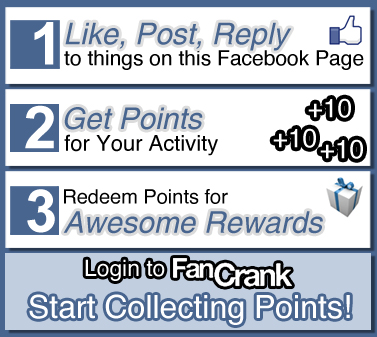
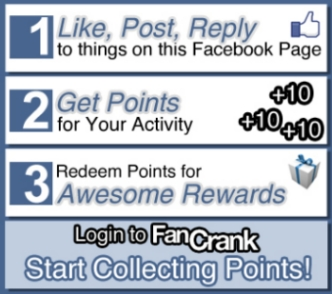
css fixes cross browser

Changed region(s): [[0.0, 0.0, 1.0, 1.0]]

diff --git a/public/css/loadstyle1.css b/public/css/loadstyle1.css
@@ -634,6 +634,7 @@ background-color: @color-post-background-hover;
   position: relative;
   padding-left: 2px;
   padding-right: 2px;
+  clear: both;
 }
 .top-list.mini .ranker {
   height: 36px;
@@ -867,6 +868,12 @@ background-color: @color-post-background-hover;
   -webkit-hyphens: auto;
   -moz-hyphens: auto;
   hyphens: auto;
+}
+#toppost .comment-box {
+  width: 120px;
+}
+.points.login {
+  width: 160px;
 }
 .post-container .link {
   font-size: 11px;
@@ -1118,7 +1125,7 @@ background-color: @color-post-background-hover;
   -moz-box-shadow: 0 0 0 0;
   box-shadow: 0 0 0 0;
 }
-.progress .bar img {
+.progress img {
   width: 40px;
 }
 .progress.exp {
@@ -1451,8 +1458,8 @@ background:@color-post-background-hover;
   margin-right: 10px;
 }
 #whatisfancrank {
-  height: 329px;
-  width: 370px;
+  height: 302px;
+  text-align: Center;
   margin-top: 8px;
 }
 .italic {

diff --git a/public/css/refactor_style.less b/public/css/refactor_style.less
@@ -689,6 +689,7 @@ width:100%;
 position:relative;
 padding-left:2px;
 padding-right:2px;
+clear:both;
 }	
 
 .top-list.mini .ranker{
@@ -991,6 +992,14 @@ word-break: break-word;
 hyphens: auto;
 }
 
+#toppost .comment-box{
+	width:120px;
+}
+
+.points.login{
+	width:160px;
+}
+
 .post-container .link{
 font-size:11px;
 background-color: @color-post-link-background;
@@ -1272,7 +1281,7 @@ background:@color-badge-bar;
 .box-shadow(0 0 0 0 );
 }
 
-.progress .bar img{
+.progress img{
 width:40px;
 }
 
@@ -1659,9 +1668,8 @@ margin-right:10px;
 /////////////////////////////////////////////////////////////////////////////////////
 
 #whatisfancrank{
-
-	height:329px;
-	width:370px;
+	height:302px;
+	text-align:Center;
 	margin-top:8px;
 }
 

diff --git a/public/js/cranker.js b/public/js/cranker.js
@@ -471,7 +471,7 @@ function getUpcomingBadges(ui, limit){
 			if (ui == '#profile_upcoming_badges'){
 				$(ui).html("<div style='text-align:center;margin-top:-1px; padding: 0 25px 0 ' ><img src='/img/ajax-loader.gif' /></div>");
 			}else{
-				$(ui).html("<div style='text-align:center;margin-top:-1px; padding: 0 25px 0 ' ><img src='/img/ajax-loader2.gif' /></div>");
+				$(ui).html("<div style='text-align:center;margin-top:-1px; padding: 0 25px 0 ' ><img src='/img/ajax-loader-white.gif' /></div>");
 				
 			}
 		},

diff --git a/application/modules/app/controllers/IndexController.php b/application/modules/app/controllers/IndexController.php
@@ -82,11 +82,12 @@ class App_IndexController extends Fancrank_App_Controller_BaseController
     	
     	//get top fans list from memcache
    		if(!empty($this->data['page']['id'])) {
+   			$topfan = array();
     		$cache = Zend_Registry::get('memcache');
     		$cache->setLifetime(1800);
-     		//$cache->remove($this->data['page']['id'] . '_topfan');
+     		$cache->remove($this->data['page']['id'] . '_topfan');
      		//$cache->remove($this->data['page']['id'] . '_topfanall');
-     		//$cache->remove($this->data['page']['id'] . '_topfanlastweek');
+     		$cache->remove($this->data['page']['id'] . '_topfanlastweek');
 //     		$cache->remove($this->_fanpageId . '_topclicker');
 //     		$cache->remove($this->_fanpageId . '_topfollowed');
 //     		$cache->remove($this->_fanpageId . '_toptalker');
@@ -159,10 +160,7 @@ class App_IndexController extends Fancrank_App_Controller_BaseController
   				//echo $e->getMessage();
   			}    	
     	}
-    	    	
-    	
-    
-    	
+    	    	   	
     	
     	/*
     	if(isset($fanpage->fanpage_level) && $fanpage->fanpage_level != 3) {

diff --git a/application/models/Rankings.php b/application/models/Rankings.php
@@ -84,7 +84,7 @@ class Model_Rankings extends Model_DbTable_Rankings
 		$select="SELECT f.fan_last_name, f.fan_first_name, f.facebook_user_id, sum(if(p.giving_points>0, p.giving_points, 0)) as count FROM fancrank.point_log p
 				left join fans f
 				on f.facebook_user_id = p.facebook_user_id
-				where f.fanpage_id = $page_id && f.facebook_user_id != f.fanpage_id && p.created_time > $this->_lastSunday
+				where f.fanpage_id = $page_id && f.facebook_user_id != f.fanpage_id && p.created_time > '$this->_lastSunday'
 				group by f.facebook_user_id
 				having f.facebook_user_id not in (Select facebook_user_id from fanpage_admins where fanpage_id = $page_id)
 				order by count DESC";

diff --git a/application/modules/app/controllers/AppController.php b/application/modules/app/controllers/AppController.php
@@ -2865,6 +2865,7 @@ class App_AppController extends Fancrank_App_Controller_BaseController
     	$this->_helper->json($result);
     }
 	*/
+    
     public function logoutAction()
     {
     	$this->_helper->layout->disableLayout();
